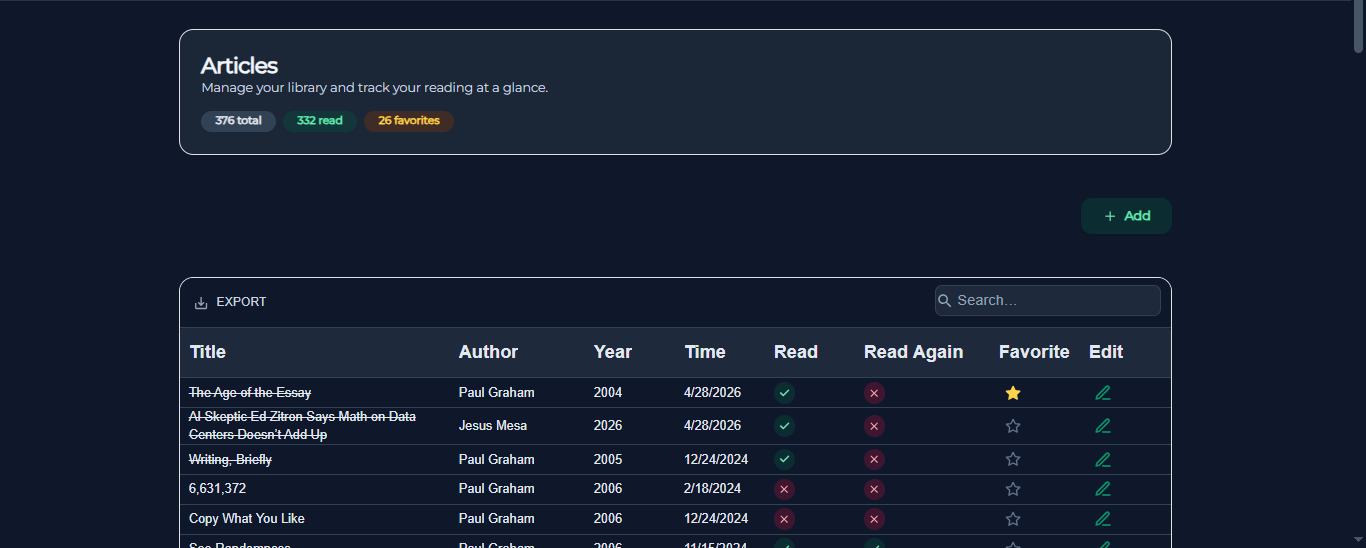
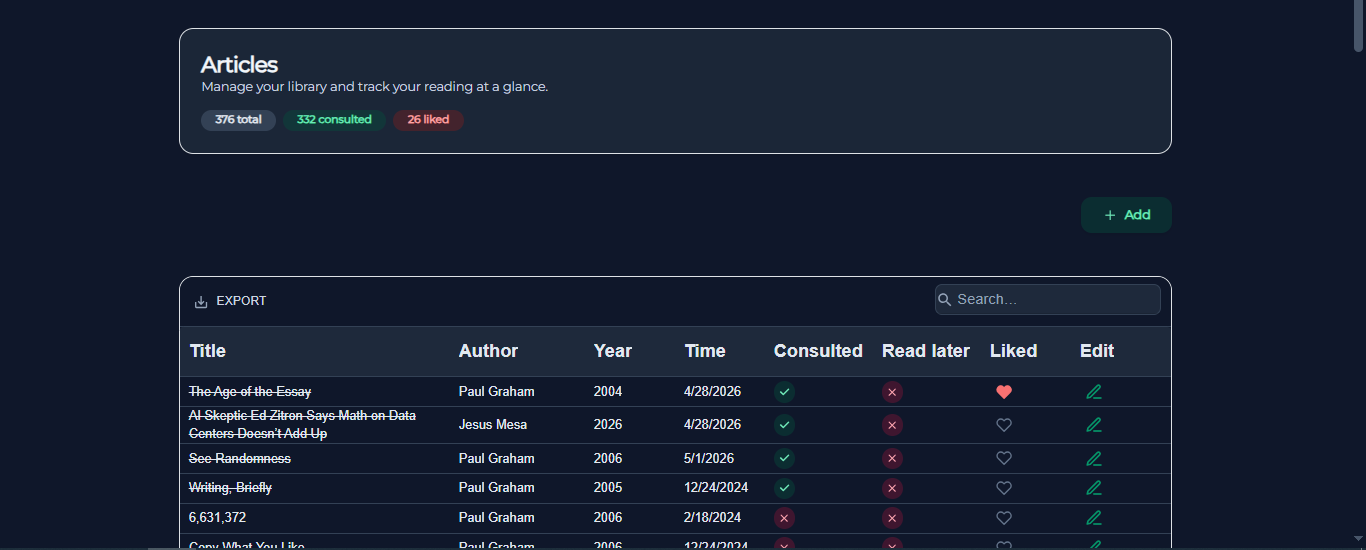
feat(frontend): add new read-again page to the carousel

diff --git a/frontend/src/components/pages/HomePage.tsx b/frontend/src/components/pages/HomePage.tsx
@@ -11,14 +11,19 @@ const getScreenshots = (theme: string) => {
       description: 'Keep every useful article, blog post, and website in one organized place.',
     },
     {
-      src: `/screenshots/${theme}/favorites.PNG`,
+      src: `/screenshots/${theme}/likes.PNG`,
       title: 'Find liked articles quickly',
       description: 'Mark articles you like.',
     },
     {
+      src: `/screenshots/${theme}/read-later.PNG`,
+      title: 'Save articles to read again',
+      description: 'Mark articles you want to read later.',
+    },
+    {
       src: `/screenshots/${theme}/stats.PNG`,
       title: 'Review your habits',
-      description: 'Track what you read and understand how your library grows over time.',
+      description: 'Track what you read and understand your reading habits.',
     },
   ];
 };
@@ -60,8 +65,7 @@ function HomePage() {
               Never forget an article you've liked again.
             </h2>
             <p className="max-w-2xl text-lg leading-8 text-slate-600 dark:text-slate-300">
-              Article Manager helps you collect, organize, like, and review articles, blog posts, and useful websites, so you can easily rediscover
-              what you have read.
+              Save articles, track what you read, add notes, and get simple insights into your reading habits. For free.
             </p>
           </div>
         </div>
